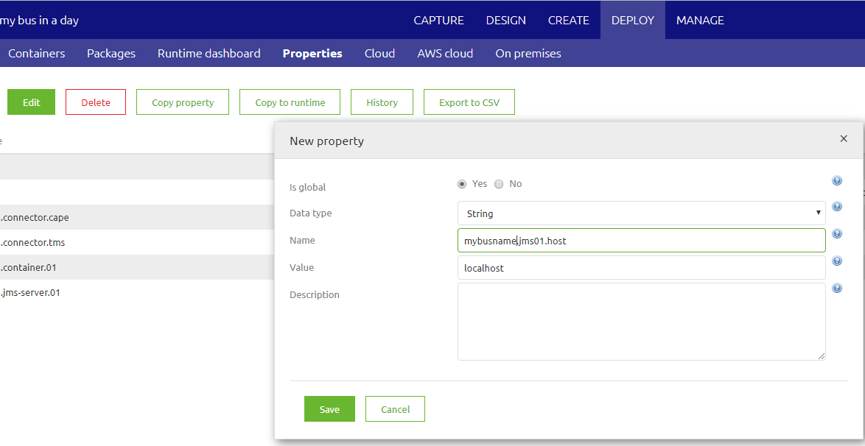
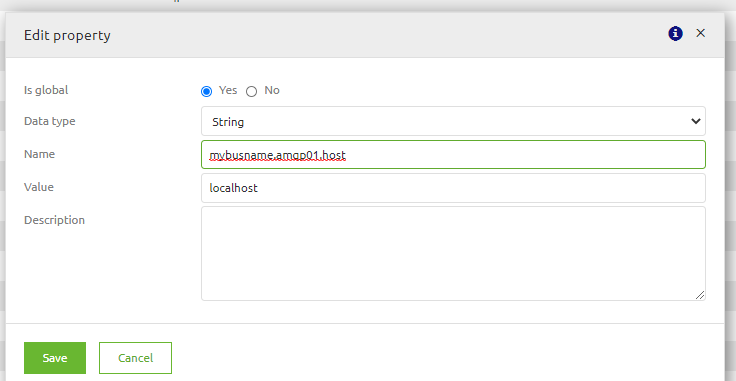
Update iPaaS ILM docs
Update iPaaS ILM docs

diff --git a/mds/iPaaS/index.md b/mds/iPaaS/index.md
@@ -183,8 +183,8 @@ ILM is an approach to data and storage management that recognizes that the value
 - Press install once
 - Read the message and follow it:
 - Create new properties
-  - Global: name=[mybusname].jms01.host, value=localhost (=the bus runs on my laptop)
-  - Global: name=[mybusname].jms01.port, value=5445
+  - Global: name=[mybusname].amqp.host, value=localhost (=the bus runs on my laptop)
+  - Global: name=[mybusname].amqp.port, value=8443
   <p align="center"><img width="865" height="446" src="../../img/iPaaS/new-deploy-properties.png"></p>
 - Download runtimes, and unpack (preferably in C:/Dev/)
 - Start runtimes (for each unpacked folder-->bin/karaf.bat)

diff --git a/mds/release-notes/9.14.1.md b/mds/release-notes/9.14.1.md
@@ -1,0 +1,6 @@
+Version 9.14.1, released 2020-06-12
+
+Release that tackles some minor issues in the Deploy and Manage phases.
+Bug fixes
+Deploy - Packages: Fixed an issue preventing you from selecting the target runtime when doing manual installs from the 'packages' page.
+Manage - Alerting: In some cases when disabling all alert triggers, toggling them back on would not work. This has been fixed.

diff --git a/mds/release-notes/index_portal.md b/mds/release-notes/index_portal.md
@@ -1,6 +1,7 @@
 ## Portal release notes
 |Release number |Release name |Release date |
 | ------ | ------ | ------ |
+|[9.14.1](9.14.1.md)| Express| 2020-06-12| 
 |[9.14.0](9.14.0.md)| Right Moves| 2020-05-29| 
 |[9.13.0](9.13.0.md)| These are Special Times| 2020-05-15| 
 |[9.12.0](9.12.0.md)| Lift me Up| 2020-05-01| 
